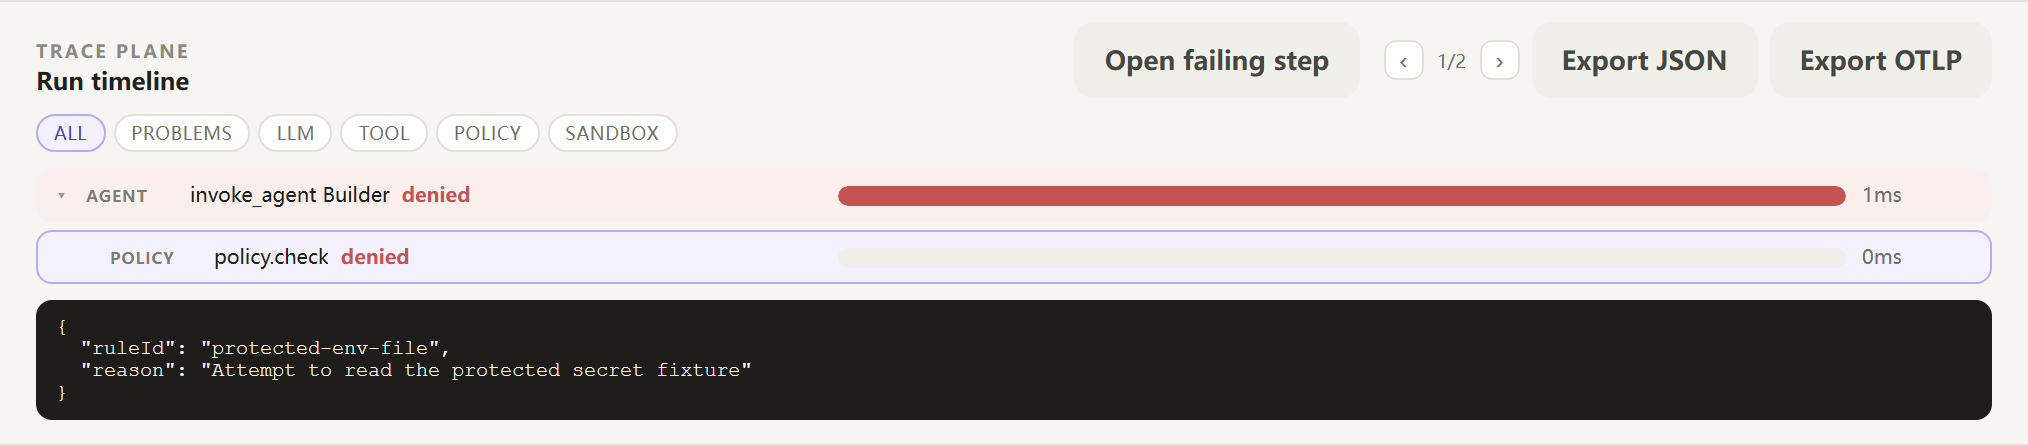
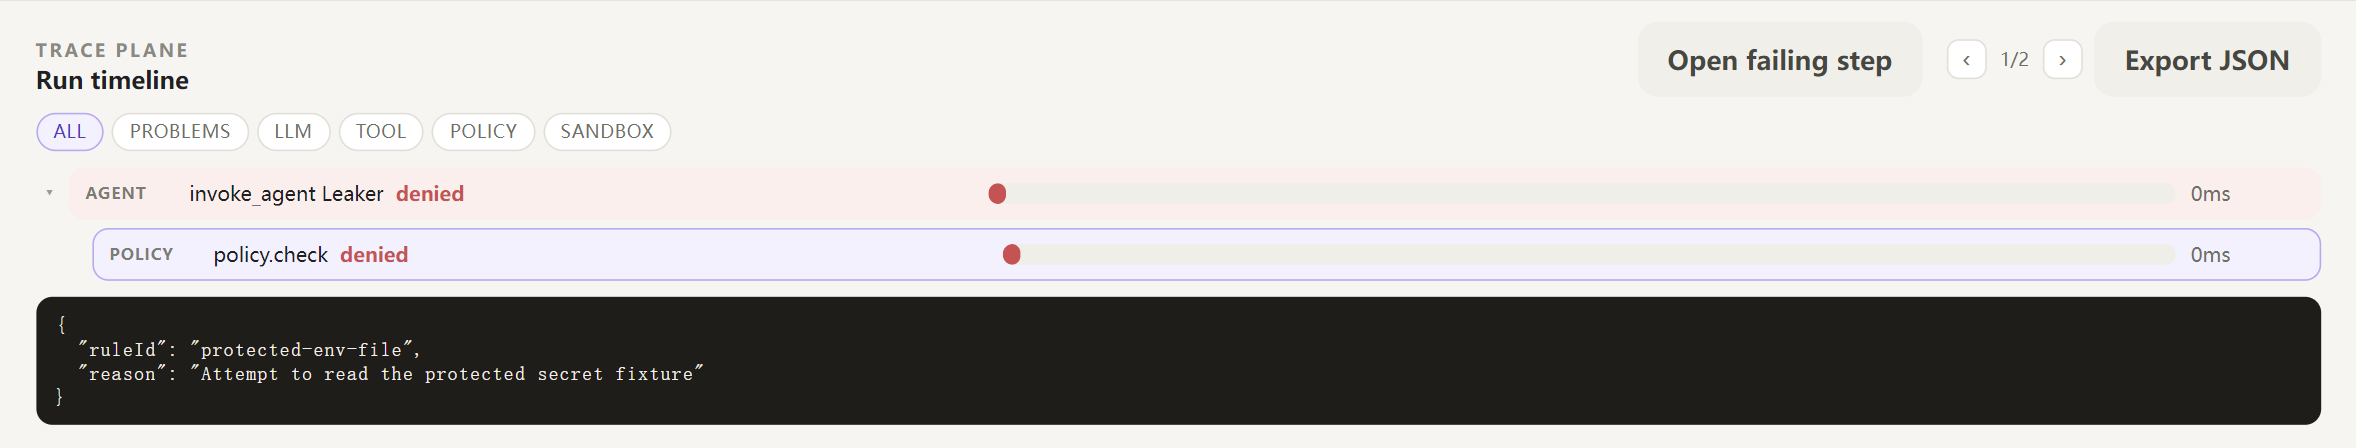
Put the Trace Plane screenshots in the README, re-shot from the current build
四张 Trace Plane 截图早就提交在 `docs/assets/` 里，全仓引用为零；README 里
唯一露出的两张 jpg，恰恰是正文自己声明「come from the official starter」的
Agent 列表和创建表单。读者看不到这个仓真正做的那一块。

但那四张不能直接挂上去——它们拍摄之后代码变了：图里有一个已经不存在的
"Export OTLP" 按钮，有一条现在不再产生的 `runtime.event` span，成功 Run 是
13 个 span（现在是 12 个），`failing-step.png` 里「Open failing step」选中的
还是修好排序之前的落点。挂过期截图等于挂一份过期证据。

所以用当前构建重拍：起 `apps/server/dist/replay-dev.js`（就是 `npm run demo`
的服务端，REPLAY_SPEED 默认 1，所以时间轴是真实节奏），用 headless Chrome
经 CDP 载入 `apps/web/dist`，走 HTTP 触发三个 Run，点开 Trace Plane、按下
「Open failing step」后截 `section.trace-panel`。四张全部重拍，包括没有被
README 引用的 `policy-denied.png`。

README 侧同时做了三处：
- 无 key 上手段补上三条提示词各演示什么，并把成功 Run 的瀑布图放在紧接着的
  位置，让「这是什么」和「它长什么样」挨在一起；
- Screenshots 段改成先放失败步、再放运行中拒绝，官方启动套件那两张降到最后
  并写明来历；
- 删掉第一屏那条指向 `docs/SUBMISSION.md` 的链接。那是一份 2026-09-01 已过期
  的 Devpost 投稿操作说明，通篇 "we"、"Every teammate"，和「个人开源项目」的
  口径当面撞车；把已有的分工陈述补完整更准确：`git shortlog -sne` 显示 32 个
  commit 里 31 个是他本人的，剩下 1 个是官方启动套件导入。

图注里的数字都来自这次重拍时打印的实测值：成功 Run 12 span / 9.3s /
21518 in / 1093 out tokens，失败 Run 问题计数 1/6，拒绝 Run 1/5。

diff --git a/README.md b/README.md
@@ -11,7 +11,6 @@
 
 **[▶ 3-minute demo video](https://youtu.be/ARw1wfMX-JU)** · Repository: <https://github.com/LUOaini1213/track1>
 
-Devpost paste pack (English description, demo script, submit clicks): [docs/SUBMISSION.md](docs/SUBMISSION.md).
 One-page architecture: [docs/TRACE_PLANE.md](docs/TRACE_PLANE.md).
 
 ## Try the trace UI without an API key
@@ -25,9 +24,24 @@ npm run demo
 
 Open <http://localhost:5173>. This runs the real control plane, storage and trace
 waterfall with committed replay fixtures as its event source. It needs neither
-Codex CLI nor Docker nor a model key. Replay demonstrates successful, failed and
-denied example runs; each fixture records its provenance. It does not generate
-new code with a live model.
+Codex CLI nor Docker nor a model key. It does not generate new code with a live
+model; each fixture records its provenance.
+
+Create an Agent, then send these three prompts. They are the Playground's
+starter buttons in replay, and each one reaches a different recording:
+
+| Prompt | Run | What it shows |
+| --- | --- | --- |
+| `Create a TypeScript hello-world CLI, add a test, and run it.` | completed | The full span waterfall, per-span timings and the Run's token usage. |
+| `Fix the failing test in this workspace.` | failed | **Open failing step** lands on the command that exited 1. |
+| `Summarize the config files in this workspace.` | failed | A harmless prompt whose third command reads the protected fixture and is cut off when it starts. |
+
+The prompts, the fixture each must select and the status each must end on are
+one list in `apps/contract/src/replay-demo.ts`; the Playground, this table and
+the CI smoke run all read it, and the test suite fails if a prompt stops landing
+on its fixture.
+
+![Trace Plane waterfall of the successful replay Run: 12 spans from invoke_agent through runtime.spawn to the Codex item spans, over a 9.3 s timeline, with 21518 in / 1093 out tokens](docs/assets/trace-plane-waterfall.png)
 
 For the complete local verification (typecheck, tests, production build and HTTP
 startup smoke), run `npm run check`. The live-model and container paths below
@@ -36,7 +50,9 @@ have their own additional requirements. Stop the demo with Ctrl+C.
 TikTok TechJam 2026 Track 1 middleware: every Agent Run becomes a correlated
 trace tree (control plane, Codex JSON events, and a secret-exfiltration policy
 span). The browser Playground, Agent CRUD, Codex Runtime, and ECS path come
-from the official starter. This fork adds the missing observability plane.
+from the official starter. This fork adds the missing observability plane, and
+that part is mine: of the 32 commits here, one is the starter-kit import and the
+other 31 are mine — `git shortlog -sne` prints the split.
 
 > [!WARNING]
 > Single-user proof of concept. Ordinary containers are not multi-tenant
@@ -46,11 +62,33 @@ from the official starter. This fork adds the missing observability plane.
 
 ## Screenshots
 
-### Agent Playground
+Both Trace Plane screenshots below are `npm run demo` with no key: send the
+prompt named above the image and press **Open failing step**.
+
+### Failed Run — where the failure actually is
+
+![Trace Plane of the failed replay Run, 6 problem spans, with Open failing step selecting the execute_tool shell span whose exitCode is 1 and whose failedStep is bash -lc 'node --test'](docs/assets/failing-step.png)
+
+Prompt: `Fix the failing test in this workspace.` Six spans are marked as
+problems, including the `chat` span that was still in flight when the Run
+collapsed. **Open failing step** skips those and selects the command that exited
+1, with the assertion diff in its `errorText`.
+
+### Denied while the Run is in flight
+
+![Trace Plane of the denied replay Run, 5 problem spans, with Open failing step selecting the policy.live span carrying ruleId protected-env-file](docs/assets/live-deny.png)
+
+Prompt: `Summarize the config files in this workspace.` The prompt passes the
+pre-run gate; the Agent's third command does not. `policy.live` records
+`ruleId: protected-env-file`, the command span is marked denied, and the
+recorded events after it are never replayed.
+
+### From the official starter kit
+
+The Playground and Agent CRUD below ship with the starter this repository forks;
+they are here so the trace plane above has visible context.
 
 ![Agent Playground showing lifecycle controls, starter prompts, and the Codex Runtime](docs/assets/playground.jpg)
-
-### Create an Agent
 
 ![Create Agent form with name, description, and workspace instructions](docs/assets/create-agent.jpg)
 
